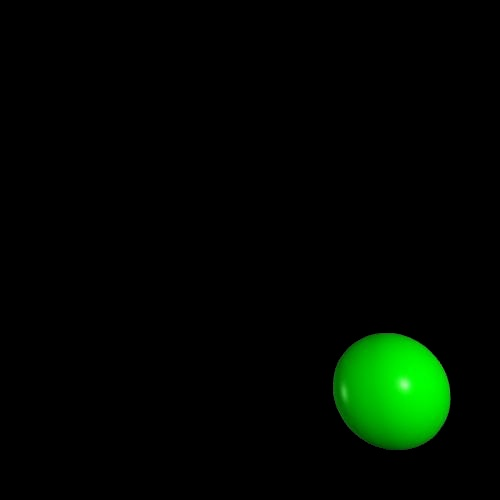
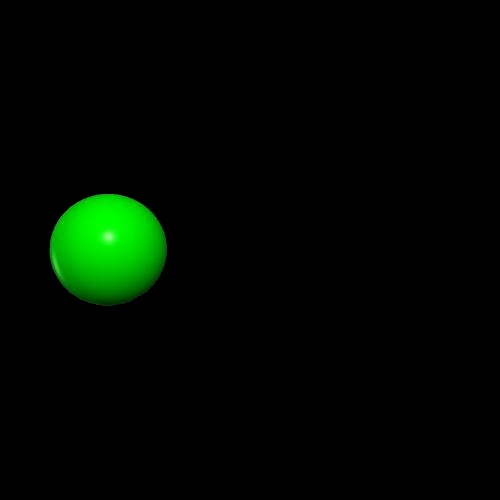
lang expression filter

Changed region(s): [[0.66, 0.66, 0.9, 0.9], [0.09, 0.39, 0.36, 0.63]]

diff --git a/testScript.py b/testScript.py
@@ -8,9 +8,9 @@ from data import Model, Scene
 from scene_drawer import generate_image
 
 
-pixel_map = {(0, 0): (110, 86), (0, 1): (250, 86), (0, 2): (390, 86),
-            (1, 0): (110, 232), (1, 1): (250, 232), (1, 2): (390, 232),
-            (2, 0): (110, 378), (2, 1): (250, 378), (2, 2): (390, 378)}
+pixel_map = {(-2, 2, 0): (110, 86), (0, 2, 0): (250, 86), (2, 2, 0): (390, 86),
+                (-2, 0, 0): (110, 232), (0, 0, 0): (250, 232), (2, 0, 0): (390, 232),
+                (-2, -2, 0): (110, 378), (0, -2, 0): (250, 378), (2, -2, 0): (390, 378)}
 
 #image generation script generates 4000+ images
 def test1() -> bool:
@@ -24,10 +24,7 @@ def test1() -> bool:
 #makes a segmentation mask
 def test2() -> bool:
     list_objects = list()
-    a = Model()
-    a.color = "red"
-    a.pixel_location = (250,378)
-    list_objects.append(a)
+    
     # a = Model()
     # a.color = "green"
     # a.pixel_location = (250,232)
@@ -40,13 +37,29 @@ def test2() -> bool:
     # a.color = "red"
     # a.pixel_location = (390,86)
     # list_objects.append(a)
+    color_choice = "red"
+    shape_choice = "sphere"
+    size_choice = "big"
+    loc_choice = (-2, -2, 0)
+    filename = "scene0"
+    folder = "temp"
+
+    a = Model()
+    a.color = "red"
+    a.size = size_choice
+    a.shape = shape_choice
+    a.pixel_location = pixel_map[(-2,-2, 0)]
+    list_objects.append(a)
+    
+    generate_image(color=color_choice, shape=shape_choice, size=size_choice, location=loc_choice, filename=filename, folder=folder)
+
     sc = Scene()
-    sc.image_location = "scene2.jpg"
+    sc.image_location = "temp/scene0.png"
     sc.model_list = list_objects
     sc.list_expressions = [("objects","template",[0])]
     list_scene = list()
     list_scene.append(sc)
-    segment_images("temp", list_scene)
+    segment_images("temp_result", list_scene)
 
 
 #generate image correctly
@@ -55,7 +68,7 @@ def test3() -> bool:
     color_list = ["red", "green"]
     shape_list = ["box", "sphere"]
     size_list = ["big", "small"]
-    location_list = [(0, 0), (0, 1), (0, 2), (1, 0), (1, 1), (1, 2), (2, 0), (2, 1), (2, 2)]
+    location_list = [(-2, -2, 0), (-2, 0, 0), (-2, 2, 0), (0, -2, 0), (0, 0, 0), (0, 2, 0), (2, -2, 0), (2, 0, 0), (2, 2, 0)]
 
     list_ob = []
 
@@ -99,7 +112,7 @@ def test3() -> bool:
         # a.pixel_location = (390,86)
         # list_objects.append(a)
         sc = Scene()
-        sc.image_location = f"scene{i}.png"
+        sc.image_location = f"{folder}\\scene{i}.png"
         sc.model_list = list_objects
         sc.list_expressions = [("objects","template",[0])]
         list_scene.append(sc)
@@ -112,9 +125,11 @@ def test3() -> bool:
 #another visual inspection???
 def test4() -> bool:
     color_list = ["red", "green"]
-    shape_list = ["cube", "sphere"]
+    shape_list = ["box", "sphere"]
     size_list = ["big", "small"]
-    location_list = [(0, 0), (0, 1), (0, 2), (1, 0), (1, 1), (1, 2), (2, 0), (2, 1), (2, 2)]
+    location_list = [(-2, -2, 0), (-2, 0, 0), (-2, 2, 0), (0, -2, 0), (0, 0, 0), (0, 2, 0), (2, -2, 0), (2, 0, 0), (2, 2, 0)]
+
+    list_ob = []
 
     path = os.getcwd()
 
@@ -131,7 +146,6 @@ def test4() -> bool:
         shape_choice = random.choice(shape_list)
         size_choice = random.choice(size_list)
         loc_choice = random.choice(location_list)
-
         filename = f"scene{i}"
         folder = "temp"
 
@@ -157,12 +171,14 @@ def test4() -> bool:
         # a.pixel_location = (390,86)
         # list_objects.append(a)
         sc = Scene()
-        sc.image_location = f"scene{i}.png"
+        sc.image_location = f"{folder}\\scene{i}.png"
         sc.model_list = list_objects
-        sc.list_expressions = [[("objects","template",[])]]
+        sc.list_expressions = [("objects","template",[])]
         list_scene.append(sc)
-        
+
     segment_images("temp_result", list_scene)
+
+    #VISUALLY INSPECT THIS SHIT
 
     #VISUALLY INSPECT THIS SHIT
 
@@ -187,7 +203,8 @@ def test6() -> bool:
 if __name__ == "__main__":
     #command = "python main.py"
     #os.system(command)
-    
+    test4()
+    exit(0)
     #runs all the tests
     if(test1()):
         print("Test 1 passed.")

diff --git a/createjson.py b/createjson.py
@@ -6,12 +6,23 @@ def createjsonfile(folder_name, sceneList, json_file_path):
     for idx, sc in enumerate(sceneList):
 
         for idy, expression in enumerate(sc.list_expressions):
-            ref_expr, template, _ = expression
+            ref_expr, template, objects_indices = expression
             local_dict = dict()
             local_dict["expression"] = ref_expr
             local_dict["template"] = template
             local_dict["output_image"] = "{}/{}_{}.jpg".format(folder_name, idx, idy)
             local_dict["original_image"] = sc.image_location
+            local_dict["scene_objects"] = list()
+            for index, model in enumerate(sc.model_list):
+                m = dict()
+                m["index"] = index
+                m["color"] = model.color
+                m["shape"] = model.shape
+                m["size"] = model.size
+                local_dict["scene_objects"].append(m)
+            local_dict["expression_objects"] = list()
+            for i in objects_indices:
+                local_dict["expression_objects"].append(i)
             output_list.append(local_dict)
 
     json_string = json.dumps(output_list, indent=4)

diff --git a/languageExpressions.py b/languageExpressions.py
@@ -701,8 +701,12 @@ def language_controller(scene_list):
         
         location_expressions = generate_location_expr(scene_ob, shapedict, templatedict, attribute_indexes)
         full_expression_list = expressionlist + location_expressions
+        filtered_expressions = list()
+        for expression in full_expression_list:
+            if len(expression) >= 3 and len(expression[2]) > 0:
+                filtered_expressions.append(expression)
 
-        scene_ob.list_expressions = full_expression_list #set the attribute in the scene object
+        scene_ob.list_expressions = filtered_expressions #set the attribute in the scene object
     print("finished lang expression")
 
 

diff --git a/main.py b/main.py
@@ -6,7 +6,7 @@ from segment import segment_images
 
 if __name__ == "__main__":
     # img folder for image generation
-    scene_list = SceneDrawer.load_pickle()[0:10]
+    scene_list = SceneDrawer.load_pickle()[500:510]
     language_controller(scene_list)
     # results folder for segemented images
     segment_images("segmented_img", scene_list)

diff --git a/temp.py b/temp.py
@@ -1,0 +1,3 @@
+from scene_drawer import SceneDrawer
+
+SceneDrawer.orchestrate()
